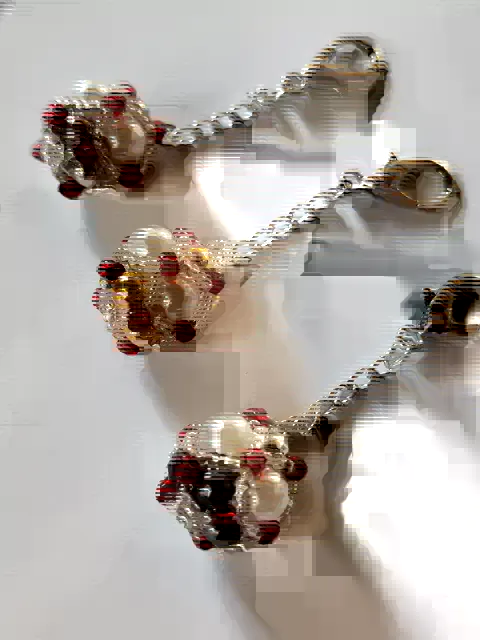
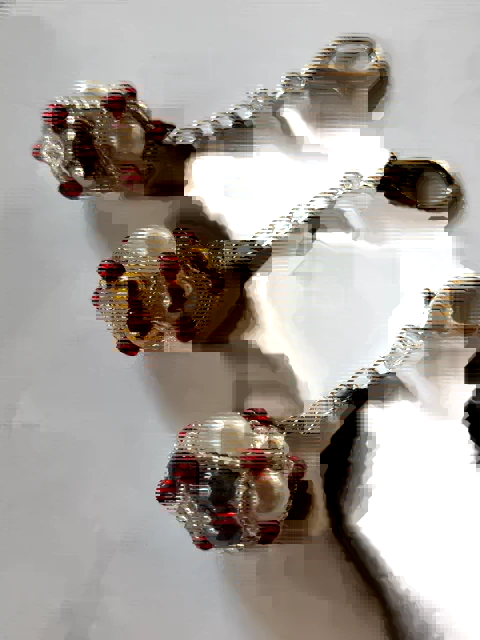
Fix keychain category to match Accessories source folder, improve image quality
Recategorize the 3 beaded-ball keychain products from beadwork to
accessories (renamed BEAD-010/011/012 to ACC-002/003/004) since they
were sourced from images/Accessories/, matching the existing
convention that SKU/category corresponds to the source folder.

Also re-encode their WebP images at higher quality (95 full / 90
thumb, up from the default 82/78) to reduce visible compression
artifacts from re-encoding already-compressed source JPEGs.

diff --git a/src/lib/content/products/index.js b/src/lib/content/products/index.js
@@ -25,9 +25,9 @@ import { product as bead006 } from './bead-006.js';
 import { product as bead007 } from './bead-007.js';
 import { product as bead008 } from './bead-008.js';
 import { product as bead009 } from './bead-009.js';
-import { product as bead010 } from './bead-010.js';
-import { product as bead011 } from './bead-011.js';
-import { product as bead012 } from './bead-012.js';
+import { product as acc002 } from './acc-002.js';
+import { product as acc003 } from './acc-003.js';
+import { product as acc004 } from './acc-004.js';
 import { product as knit001 } from './knit-001.js';
 import { product as knit002 } from './knit-002.js';
 import { product as knit003 } from './knit-003.js';
@@ -63,9 +63,9 @@ export const rawProducts = [
 	bead007,
 	bead008,
 	bead009,
-	bead010,
-	bead011,
-	bead012,
+	acc002,
+	acc003,
+	acc004,
 	knit001,
 	knit002,
 	knit003,

diff --git a/src/lib/content/products/acc-003.js b/src/lib/content/products/acc-003.js
@@ -1,8 +1,8 @@
 /** @type {import('$lib/schemas/product.js').Product} */
 export const product = {
-	sku: 'BEAD-011',
+	sku: 'ACC-003',
 	slug: 'silver-accented-beaded-ball-keychain',
-	category: 'beadwork',
+	category: 'accessories',
 	status: 'available',
 
 	title: {
@@ -41,5 +41,5 @@ export const product = {
 		ru: 'Можно заказать в другом сочетании цветов'
 	},
 
-	relatedSkus: ['BEAD-010', 'BEAD-012', 'BEAD-006']
+	relatedSkus: ['ACC-002', 'ACC-004', 'ACC-001']
 };

diff --git a/src/lib/content/products/acc-004.js b/src/lib/content/products/acc-004.js
@@ -1,8 +1,8 @@
 /** @type {import('$lib/schemas/product.js').Product} */
 export const product = {
-	sku: 'BEAD-012',
+	sku: 'ACC-004',
 	slug: 'silver-gunmetal-beaded-ball-keychain',
-	category: 'beadwork',
+	category: 'accessories',
 	status: 'available',
 
 	title: {
@@ -41,5 +41,5 @@ export const product = {
 		ru: 'Можно заказать в другом сочетании цветов'
 	},
 
-	relatedSkus: ['BEAD-010', 'BEAD-011', 'BEAD-006']
+	relatedSkus: ['ACC-002', 'ACC-003', 'ACC-001']
 };

diff --git a/src/lib/content/products/acc-002.js b/src/lib/content/products/acc-002.js
@@ -1,8 +1,8 @@
 /** @type {import('$lib/schemas/product.js').Product} */
 export const product = {
-	sku: 'BEAD-010',
+	sku: 'ACC-002',
 	slug: 'gold-accented-beaded-ball-keychain',
-	category: 'beadwork',
+	category: 'accessories',
 	status: 'available',
 
 	title: {
@@ -51,5 +51,5 @@ export const product = {
 		ru: 'Можно заказать в другом сочетании цветов'
 	},
 
-	relatedSkus: ['BEAD-011', 'BEAD-012', 'BEAD-006']
+	relatedSkus: ['ACC-003', 'ACC-004', 'ACC-001']
 };

diff --git a/src/lib/content/products/bead-006.js b/src/lib/content/products/bead-006.js
@@ -35,5 +35,5 @@ export const product = {
 
 	featured: true,
 	featuredOrder: 3,
-	relatedSkus: ['BEAD-007', 'BEAD-002', 'BEAD-010', 'BEAD-011', 'BEAD-012']
+	relatedSkus: ['BEAD-007', 'BEAD-002']
 };

diff --git a/src/lib/content/products/acc-001.js b/src/lib/content/products/acc-001.js
@@ -41,5 +41,5 @@ export const product = {
 		ru: 'Можно заказать в другом цвете'
 	},
 
-	relatedSkus: []
+	relatedSkus: ['ACC-002', 'ACC-003', 'ACC-004']
 };
